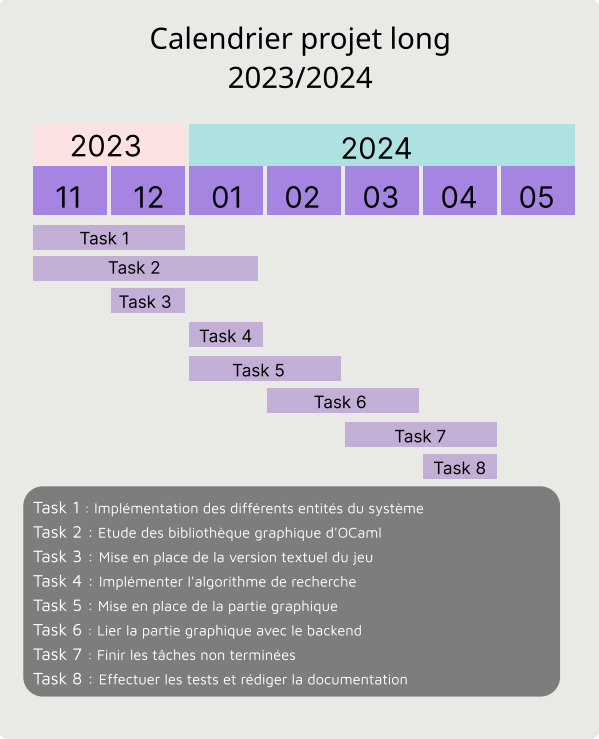
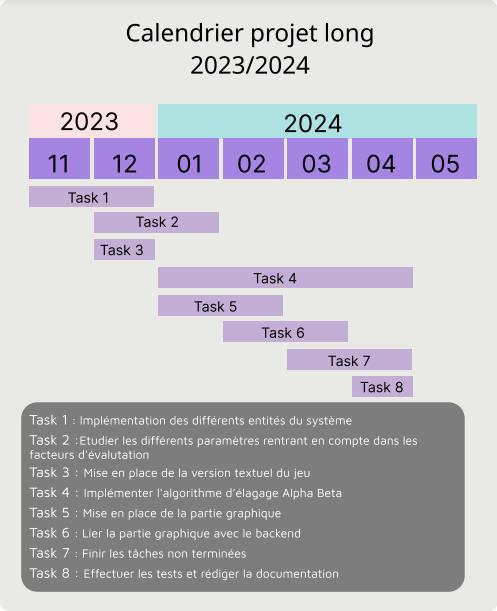
Modification calendrier + ajout source et summary

diff --git a/README.md b/README.md
@@ -65,6 +65,13 @@ repose sur la sécurité du roi, du controle du centre, de l'importance des piè
 - Leela Chess Zero: Un meilleur stockfish qui prends quelques mois pour atteindre le niveau d'un grand maître. Il enregistre des tactiques souvent utilisé,
 ainsi que des séquences de coups et les utilise dans ces parties. Il est aussi utlilisé aux dames et surtout au go.
 
+Analysis and Comparison of Chess Algorithms :
+Cette recherche analyse différents algorithmes au niveau de leur efficacité face à Stockfish.
+Premièrement, les auteurs expliquent le fonctionnement des différents algorithmes analysés, Minmax Algorithm, Monte Carlo Algorithm ainsi que le Genetic Algorithm.
+Les auteurs se basent sur le elo rating afin de pouvoir conclure quel algorithme est le plus adapté dans le jeu d'échec.
+Suite à leur analyse, ils observent que après 7 game, l'algorithme MinMax devance, les deux autres algorithmes.
+Ils concluent, en affirmant que l'algorithme Minmax est le plus adapté mais que ses variantes utilisant des optimisations tel que l'élagage peuvent fournir de meilleures résultats.
 ## Source
 https://astrakhan.consulting/fr/blog/analyse-de-lintelligence-artificielle-aux-echecs/
 https://les-echiquiers-du-roi.fr/blogs/blog-echecs/lintelligence-artificielle-et-les-echecs-une-revolution-pour-les-amateurs-et-les-professionnels
+https://repository.ukim.mk/bitstream/20.500.12188/27381/1/CIIT2023_paper_5.pdf
